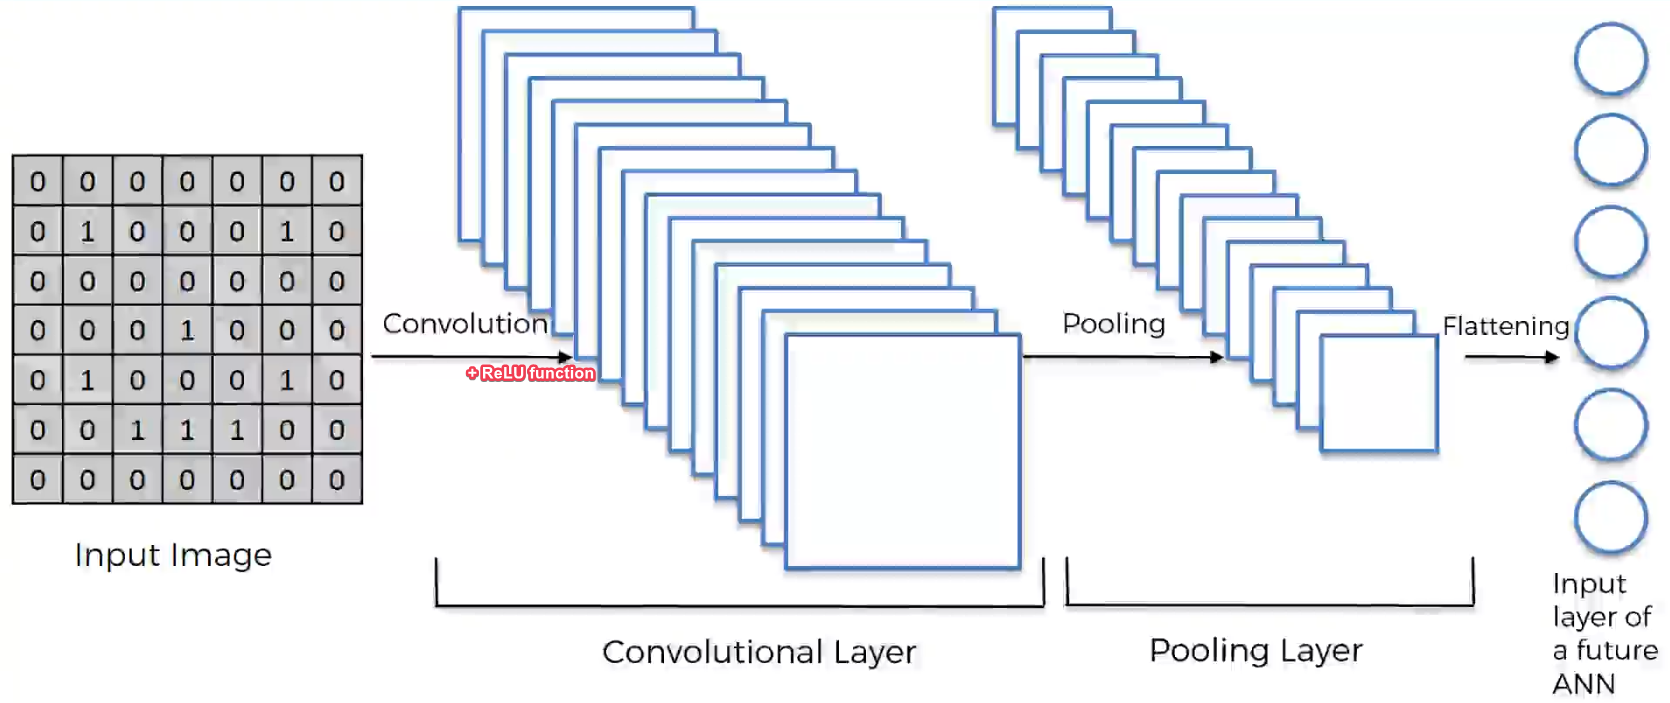
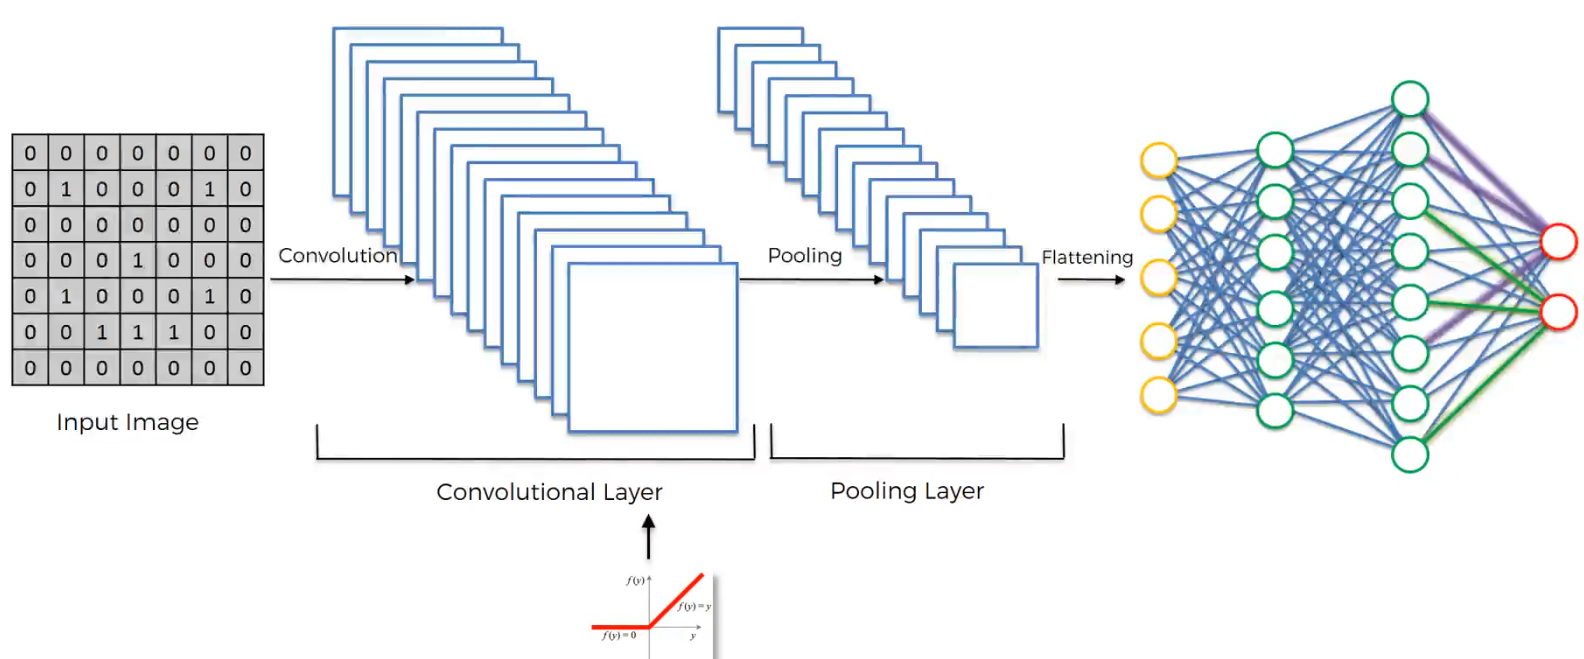
CNN

Changed region(s): [[0.0, 0.0, 1.0, 1.0], [0.0309, 0.7587, 0.1547, 0.8194], [0.6806, 0.9105, 0.8352, 0.9408]]

diff --git a/08 - Deep Learning/Section 40 - Convolutional Neural Networks (CNN)/README.md b/08 - Deep Learning/Section 40 - Convolutional Neural Networks (CNN)/README.md
@@ -131,10 +131,6 @@ Lo scopo è poterlo fornire come input all'input layer della rete convoluzionale
 
 ![input layer](img/006.png)
 
-### Riassumento
-
-![riassunto](img/007.png)
-
 ## STEP 4: Full connection
 
 In questo step viene aggiunta una rete neurale artificiale a quello fatto fin'ora.
@@ -145,4 +141,75 @@ L'hidden layer deve essere *"fully connected"* nelle reti neurali convoluzionali
 
 Lo scopo della rete neurale è combinare gli input in molti più attributi per fare la classificazione.
 
-**NB**: nelle reti neurali convoluzionali è necessario avere più di un output.
+> **NB**: nelle reti neurali convoluzionali è necessario avere più di un output.
+
+Durante il back propagation vengono aggiustati i pesi ma anche le matrici feature detector.
+
+Finito il training i nodi della rete neurale devono votare la classificazione, e i voti sono influenzati dai pesi del nodo.
+
+![voti](img/009.png)
+
+## Riassunto
+
+![riassunto](img/007.png)
+
+## Softmax & Cross-Entropy
+
+`Softmax` è una funzione che permette di avere in output dei valori che sommati danno 1 e riduce di molto il numero di dimensioni del problema.
+
+🔴 --> Dog --> 0.95
+
+⭕ --> Cat --> 0.05
+
+$$f_i(z) = \frac{e^{z_j}}{\sum_ke^{z_k}}$$
+
+`Cross-entropy`
+
+$$L_i = -\log{\frac{e^{f_{y_i}}}{\sum_je^{f_i}}}$$
+
+oppure
+
+$$H(p,q) = -\sum_x{p(x)\log{q(x)}}$$
+
+è una funzione usata assieme a `softmax`. Permette di farsi un'idea sulle performance del modello.
+
+### Come si applicano
+
+Supponiamo di avere due classificatori di immagini che tentano di classificare 3 foto. Questi sono i risultati:
+
+#### CNN 1
+
+|       | $\hat{Dog}$ | $\hat{Cat}$ | $Dog$ | $Cat$ |
+| :---: | :---------: | :---------: | :---: | :---: |
+| **1** |     0,9     |     0,1     |   1   |   0   |
+| **2** |     0,1     |     0,9     |   0   |   1   |
+| **3** |     0,4     |     0,6     |   1   |   0   |
+
+#### CNN 2
+
+|       | $\hat{Dog}$ | $\hat{Cat}$ | $Dog$ | $Cat$ |
+| :---: | :---------: | :---------: | :---: | :---: |
+| **1** |     0,6     |     0,4     |   1   |   0   |
+| **2** |     0,3     |     0,7     |   0   |   1   |
+| **3** |     0,1     |     0,9     |   1   |   0   |
+
+#### Classification error
+
+Numero di errori rispetto al totale
+
+- CNN1: $1/3 = 0.33$
+- CNN2: $1/3 = 0.33$
+
+Da questo errore non riusciamo a notare che in realtà la CNN 1 è molto meglio di CNN 2.
+
+#### Mean squared error
+
+- CNN1: $0,25$
+- CNN2: $0,71$
+
+#### Cross entropy
+
+- CNN1: $0,38$
+- CNN2: $1,06$
+
+E' un indicatore più sensibile rispetto a cross entropy. Un piccolo miglioramento nel modello incide maggiormente rispetto a mean squared.
